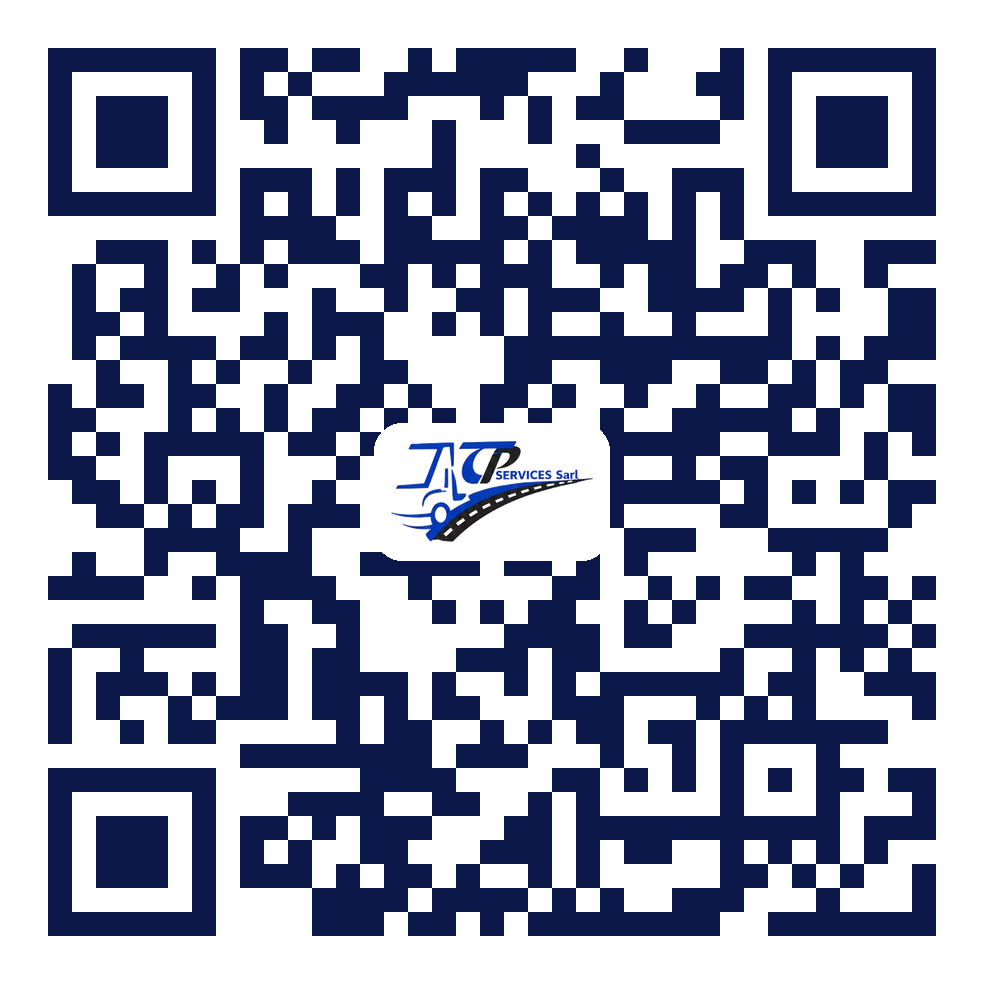
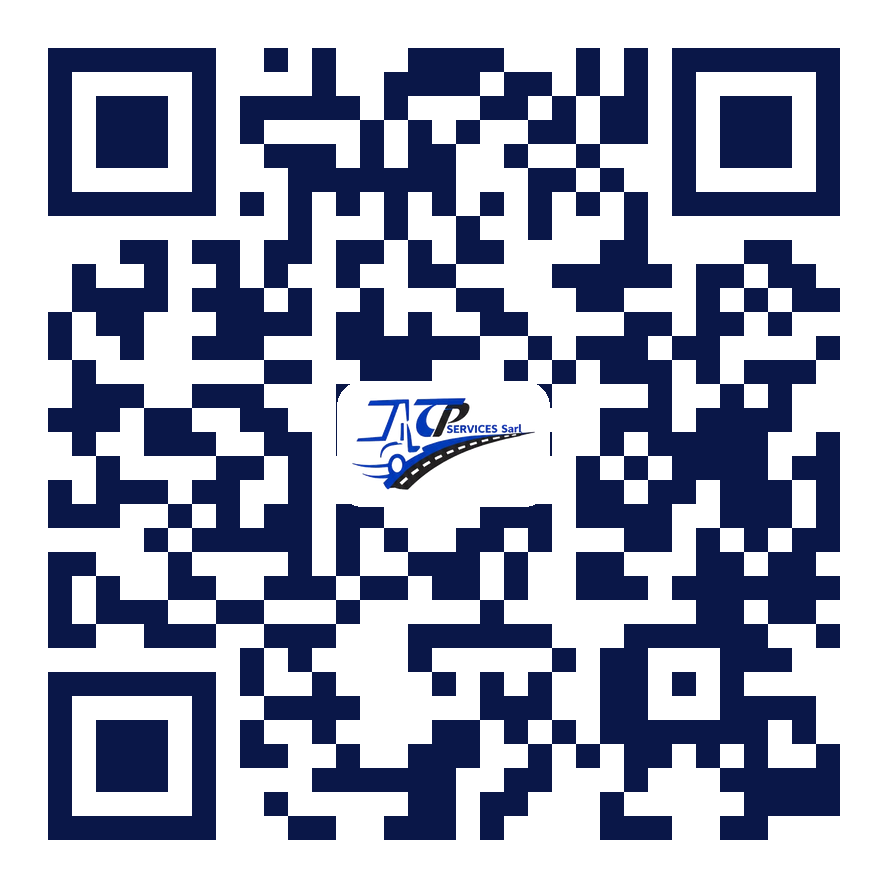
Nouvelle adresse : https://tpfils-services.github.io/ (liens de partage, README, QR code)

diff --git a/index.html b/index.html
@@ -14,15 +14,15 @@
   <meta property="og:type" content="website" />
   <meta property="og:site_name" content="TP & FILS Services SARL" />
   <meta property="og:locale" content="fr_FR" />
-  <meta property="og:url" content="https://ftalla18.github.io/tpfils-services/" />
+  <meta property="og:url" content="https://tpfils-services.github.io/" />
   <meta property="og:title" content="TP & FILS Services SARL · Port de Douala" />
   <meta property="og:description" content="Transport routier national et international, logistique, dédouanement et spécialiste en pneumatique au Port de Douala depuis 2014." />
-  <meta property="og:image" content="https://ftalla18.github.io/tpfils-services/assets/img/partage-tpfils.jpg" />
+  <meta property="og:image" content="https://tpfils-services.github.io/assets/img/partage-tpfils.jpg" />
   <meta property="og:image:width" content="1200" />
   <meta property="og:image:height" content="630" />
   <meta property="og:image:alt" content="Logo TP & FILS Services SARL" />
   <meta name="twitter:card" content="summary_large_image" />
-  <meta name="twitter:image" content="https://ftalla18.github.io/tpfils-services/assets/img/partage-tpfils.jpg" />
+  <meta name="twitter:image" content="https://tpfils-services.github.io/assets/img/partage-tpfils.jpg" />
   <link rel="icon" href="assets/img/favicon.png" />
   <link rel="preconnect" href="https://fonts.googleapis.com" />
   <link rel="preconnect" href="https://fonts.gstatic.com" crossorigin />

diff --git a/qr/make_qr.py b/qr/make_qr.py
@@ -4,7 +4,7 @@ import sys, os
 import qrcode
 from PIL import Image, ImageDraw, ImageFont
 HERE = os.path.dirname(os.path.abspath(__file__))
-URL = sys.argv[1] if len(sys.argv) > 1 else "https://ftalla18.github.io/tpfils-services/"
+URL = sys.argv[1] if len(sys.argv) > 1 else "https://tpfils-services.github.io/"
 qr = qrcode.QRCode(error_correction=qrcode.constants.ERROR_CORRECT_H, box_size=24, border=2)
 qr.add_data(URL); qr.make(fit=True)
 img = qr.make_image(fill_color=(10, 23, 72), back_color="white").convert("RGBA")

diff --git a/README.md b/README.md
@@ -2,7 +2,7 @@
 
 Site officiel (aperçu) de **TP & FILS Services SARL**, Port de Douala, Cameroun. Fondée en 2014 par M. Pierre TALLA.
 
-**Aperçu :** https://ftalla18.github.io/tpfils-services/
+**Aperçu :** https://tpfils-services.github.io/
 
 ## Contenu
 - **Français par défaut, bouton FR / EN** en haut de page (le choix est mémorisé).
